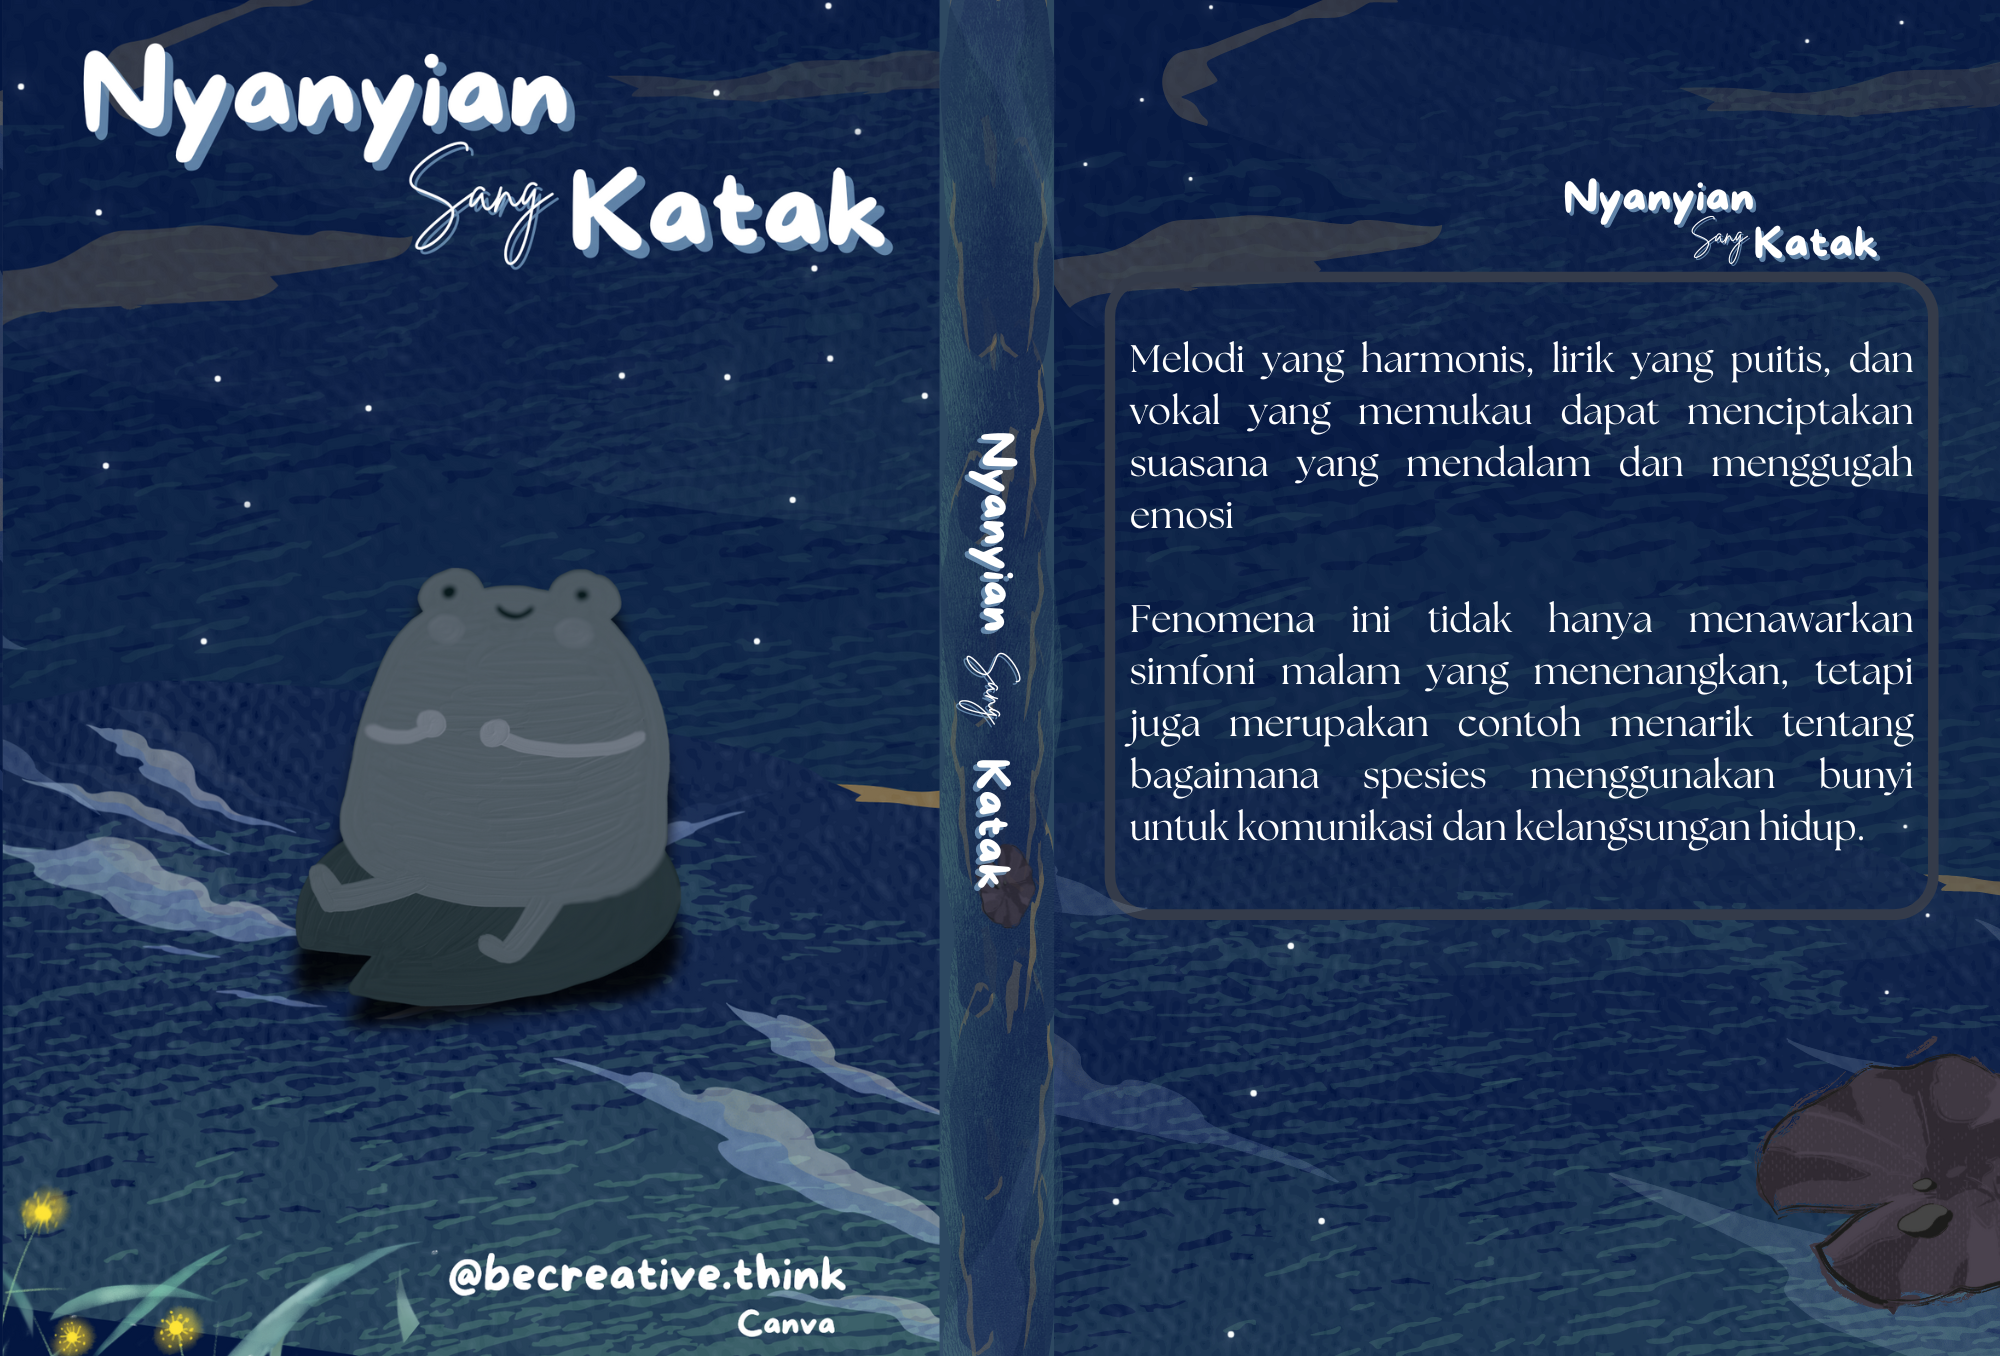
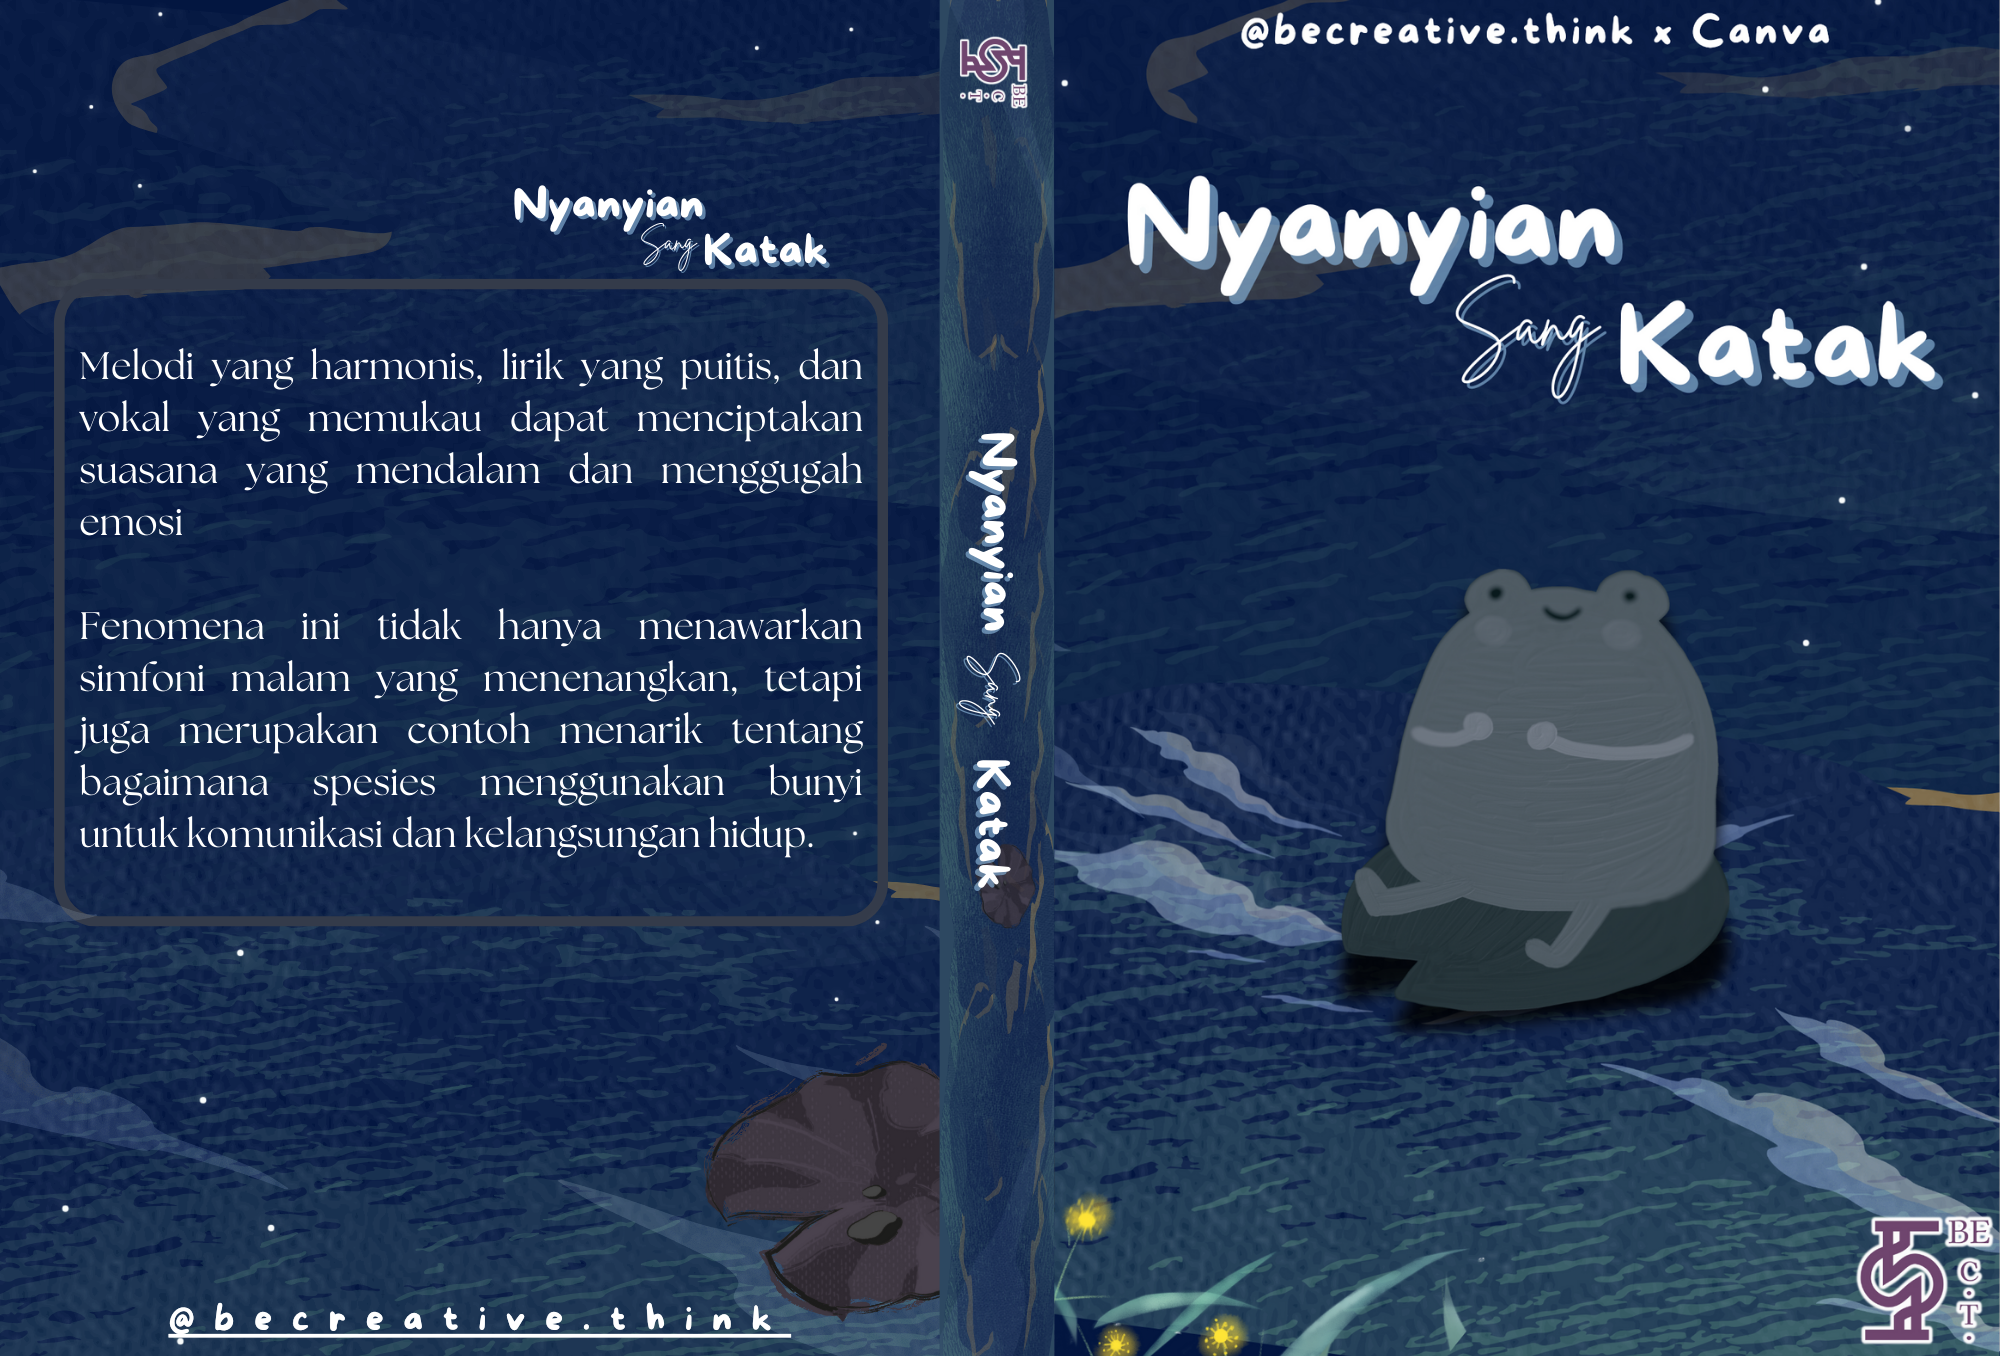
Mengganti nov1.png dengan yang baru dan menambahkan nov2.png

diff --git a/portfolio.html b/portfolio.html
@@ -212,6 +212,10 @@
 				<a href="#ovr13">
 					<img src="nov1.png">
 				</a>
+				</a>
+				<a href="#ovr14">
+					<img src="nov2.png">
+				</a>
 				
 			</div>
 			<div class="overlay" id="ovr1">
@@ -265,6 +269,10 @@
 			<div class="overlay" id="ovr13">
 				<a href="#" class="close"> X </a>
 				<img src="nov1.png">
+			</div>
+			<div class="overlay" id="ovr14">
+				<a href="#" class="close"> X </a>
+				<img src="nov2.png">
 			</div>
 		</div>
 
